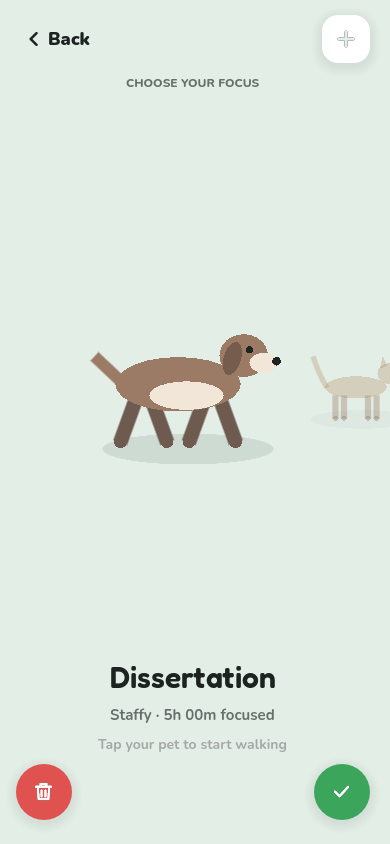
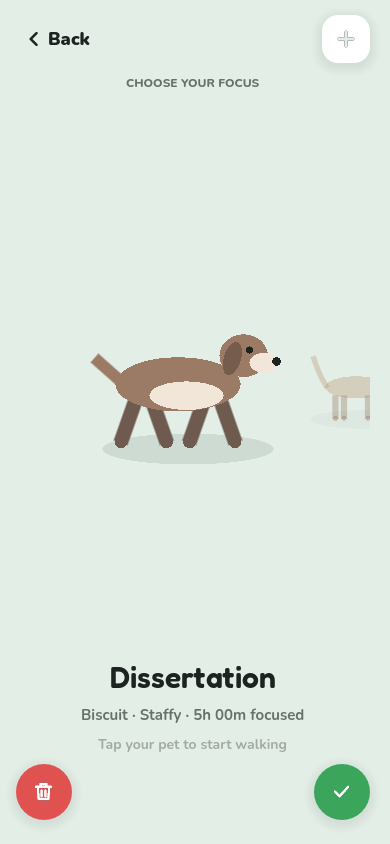
Let pets have their own names
Adopting a pet now has a second box under "What are you focusing on?" for
the pet's name ("Name your staffy"). It's optional: an unnamed pet goes by
its kind ("your staffy").

The name shows wherever the app talks about the pet: under the project on
the choose focus screen and on project panels ("Biscuit · Staffy"), in the
delete, complete and end-walk checks, the adopt toast, and the focus
complete screen ("Biscuit found you an epic gift"). It's saved with the
project, and the original app's animal names carry over on import.

The up/down animal scroller now spaces its animals to fit the room left,
and clips at its edges, so on short windows the faded neighbours no longer
overlap the name boxes or the species title.

Claude-Session: https://claude.ai/code/session_01X922fM2fET4YsKhYJz5iqV

Changed region(s): [[0.2154, 0.8318, 0.8, 0.8626], [0.9231, 0.4313, 1.0, 0.4929], [0.2462, 0.4005, 0.2769, 0.4313]]

diff --git a/README.md b/README.md
@@ -29,8 +29,8 @@ the arrow keys, or tap the little map at the bottom):
 
 - **Focus** (middle): the orb. Tap it and the choose focus screen grows out of
   it: swipe through your pets, tap one to start a walk, adopt a new one with
-  the + (name it, pick an animal and its three colours), or complete or
-  delete one.
+  the + (what it's for, the pet's name, its animal and three colours), or
+  complete or delete one.
 - **Gifts** (left): a shelf for your three favourites (press and hold a gift to
   drag it up), every gift you've found, and trade-ins (10 commons for a rare,
   5 rares for an epic, 3 epics for a legendary).
